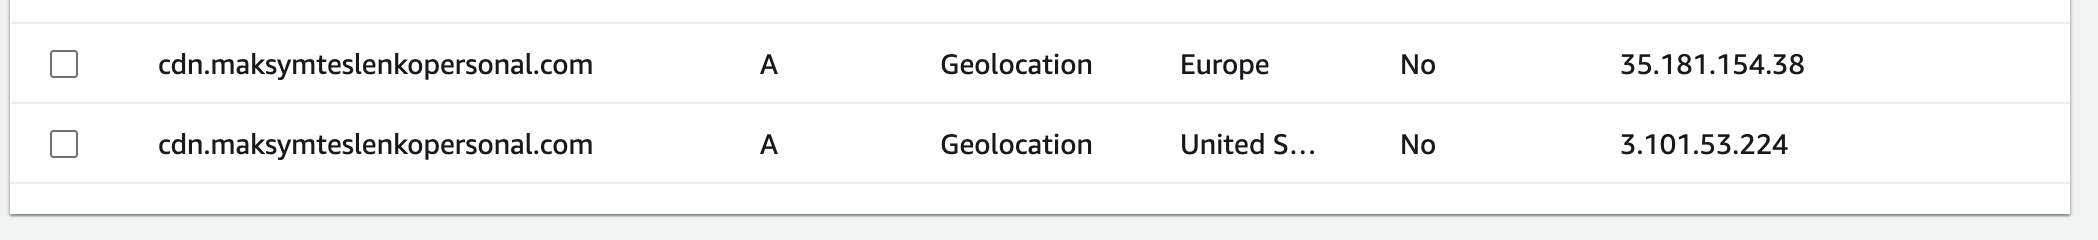
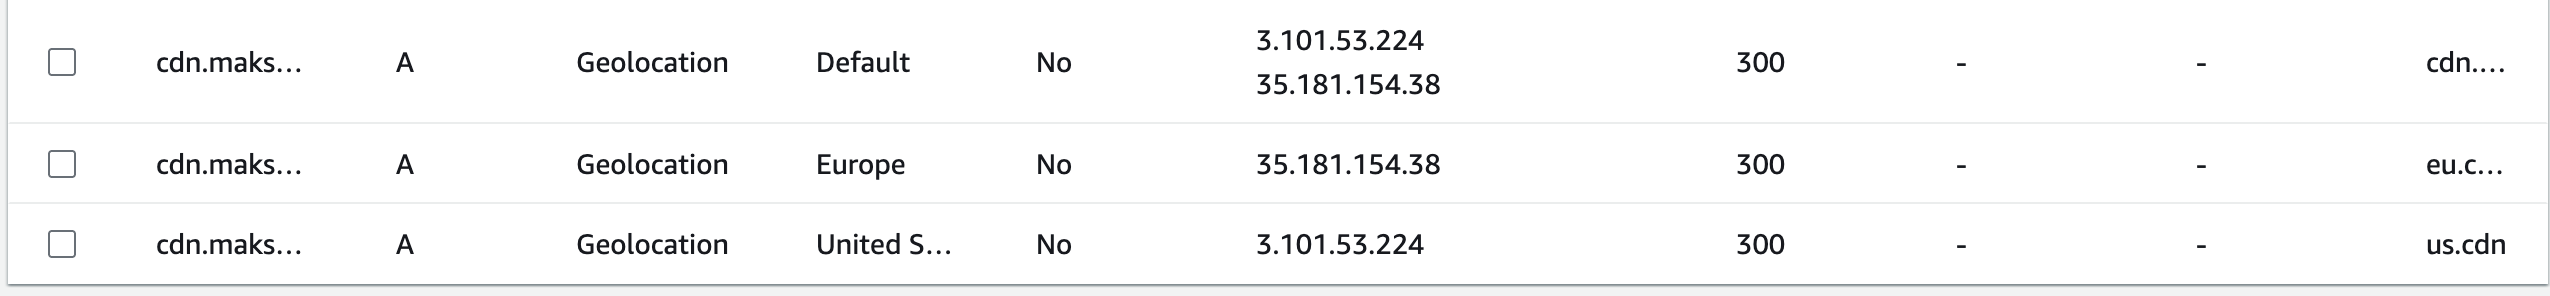
add readme file

diff --git a/Readme.md b/Readme.md
@@ -1,0 +1,65 @@
+# Custom CDN Setup with Geolocation Load Balancing
+
+This repository contains the configuration and deployment scripts for a custom Content Delivery Network (CDN) setup utilizing AWS EC2 instances as reverse proxy cache servers and NGINX-based load balancers. The CDN is configured to support geolocation-based traffic routing using AWS Route53 and geolocation load balancing, allowing users to be routed to the nearest available server.
+
+## Architecure Overview 
+
+The CDN setup involves:
+- Reverse Proxy Cache Servers: These servers act as a caching layer for content fetched from an S3 bucket. Content is cached locally to improve performance and reduce requests to the origin.
+- Load Balancers: Two NGINX load balancers, deployed in different AWS regions (US and EU), distribute traffic to their nearest reverse proxy cache servers using a "least connections" load balancing algorithm.
+- Geolocation-Based Routing (Route53): DNS requests are routed based on the geographic location of the client. Clients from the US are routed to the US load balancer, while clients from Europe are routed to the EU load balancer.
+
+## Components
+
+1. Reverse Proxy Cache Servers:
+- NGINX-based servers that cache content from a public S3 bucket.
+- Configured with the ngx_cache_purge module to handle cache purging.
+
+2. Load Balancers:
+- NGINX-based load balancers deployed in US and EU regions.
+- Load balancing is handled via the least connections method between multiple reverse proxy servers.
+
+3. AWS Route 53:
+- Handles geolocation-based DNS resolution.
+- Routes users to the closest load balancer based on their geographic location.
+
+## Geolocation Load Balancing
+
+AWS Route 53 is used to direct traffic based on the client’s location:
+- US Region: Traffic originating from the US is routed to the US-based load balancer, which further balances traffic between two reverse proxy cache servers in the same region.
+- EU Region: Similarly, traffic from European regions is routed to the EU-based load balancer.
+- Fallback (Default): Clients from regions not covered by specific geolocation policies will be routed to a default load balancer.
+
+## Testing Setup 
+
+### EC2 instances IPs overview
+
+- US Based (us-west-1) load balancer IP: 3.101.53.224
+- EU Based (eu-west-3) load balancer IP: 3.101.53.224
+
+Use ec2-userdata.cdn.balancer.bash script content while initializing EC2 instance, just copy to used data option.
+
+### Route 53 geolocation DNS configuration 
+
+![geolocation a records configs](./images/geolocation.a-records.png)
+
+### Testing geolocation dns 
+
+https://ping-admin.com/
+
+1. US based load balancing 
+
+![us based lb](./images/us.lb.check.png)
+
+2. EU based load balancing
+
+![eu based lb](./images/eu.lb.check.png)
+
+### Cache status on reverse proxy cache servers
+
+1. Cache miss:
+![cache miss](./images/proxy.cache.miss.status.png)
+
+2. Cache hit:
+![cache hit](./images/proxy.cache.hit.status.png)
+
